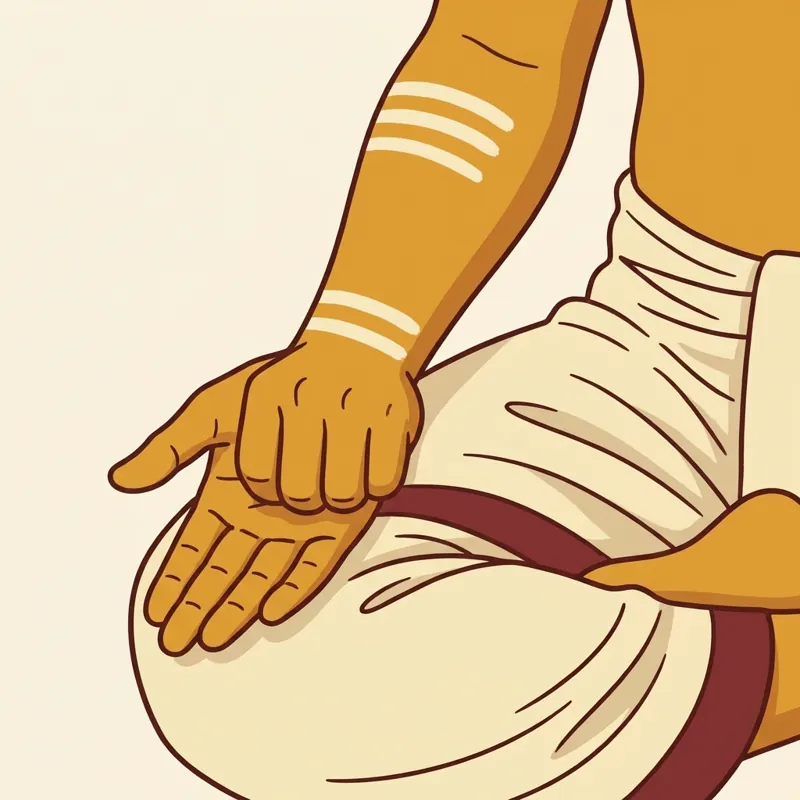
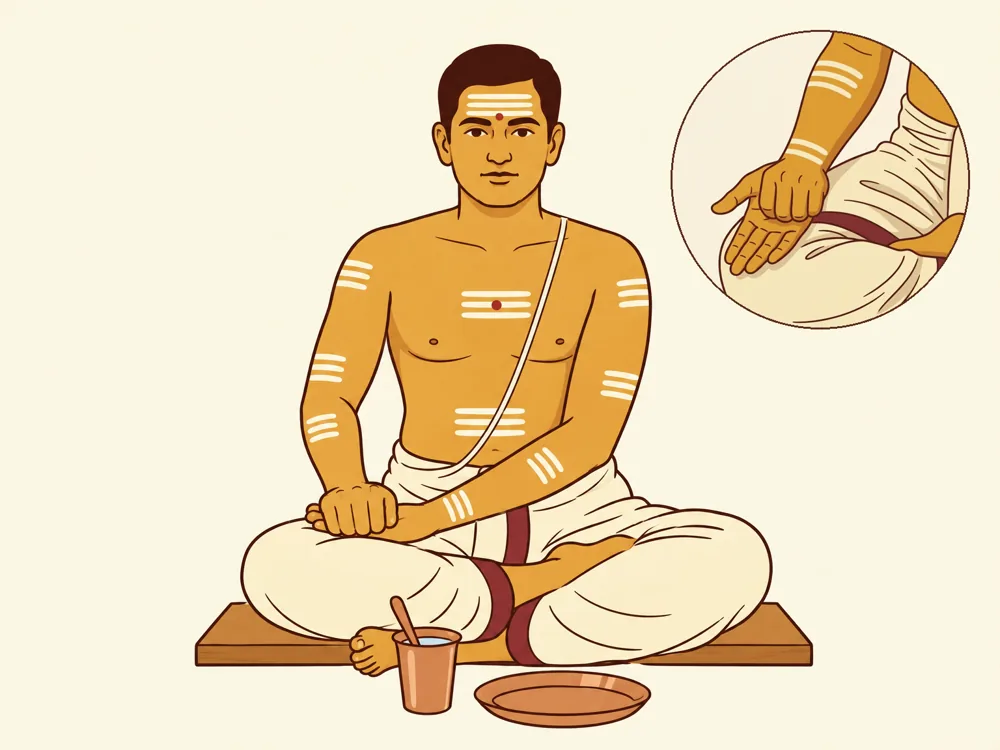
Saṅkalpam picture: full figure with the hands close-up inset; keep both sources in docs/reference/images

diff --git a/docs/reference/tools/IMAGES.md b/docs/reference/tools/IMAGES.md
@@ -35,3 +35,5 @@ What worked:
 What failed: the saṅkalpa posture (hands stacked on the RIGHT thigh) came out on the left thigh in every attempt, including edits, so that step has no picture. Poses were briefed from `docs/reference/source-check-2026-11-25.md` section D. The evening arghya is seated in the sources; the picture shows the standing form.
 
 **Saṅkalpam (2026-11-25, later):** solved by colouring the owner's line drawing of the hands as a close-up (closed right hand on the open left palm, on the right thigh). The model would not draw this stacking from words or from a full-figure photo (it always put the crossing left hand on top), but it kept the hands when asked to recolour a drawing that already had them right. The Śrī Vaiṣṇava version is the same picture with the forearm stripes removed and the skin tone matched back by a channel gain.
+
+**Saṅkalpam, final (2026-11-25):** the step shows the full figure with the close-up of the hands inset in a round frame (top right). The full figure came from GPT Image 2.5 (treg `replicate.image-gen.gpt-image-2-5-flare`, quality high, $0.128) with the owner's video frame, line drawing and the app's style picture as references; the wording that worked says the right hand "comes down on top and gently clasps" the left, with the left forearm passing underneath. Sources of both parts are kept in `docs/reference/images/` (`sankalpam-full-*.png`, `sankalpam-closeup-*.png`) so the close-up can be used on its own later.
